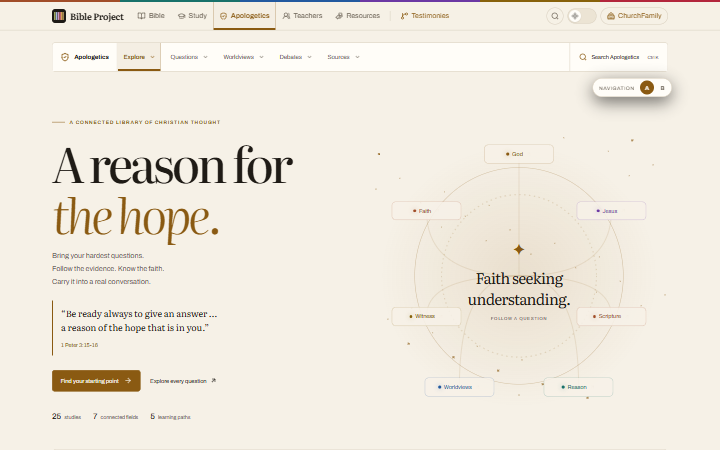
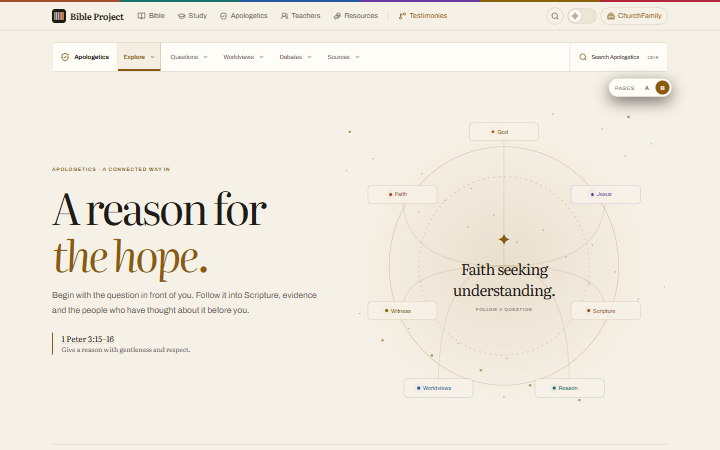
Build parallel Apologetics pages for navigation review

diff --git a/src/pages/ApologeticsPage.tsx b/src/pages/ApologeticsPage.tsx
@@ -5,7 +5,7 @@ import IslamGuidePage from './IslamGuidePage';
 import '@/components/apologetics/navigation.css';
 import { ArrowRight, ArrowUpRight, BookOpen, Bookmark, Check, CheckCircle2, Compass, GitBranch, HeartHandshake, Library, ListFilter, MessageCircle, Route as RouteIcon, Search } from "lucide-react";
 import { useEffect, useState } from "react";
-import { Link, Navigate, Route, Routes, useLocation, useParams, useSearchParams } from "react-router-dom";
+import { Link, Navigate, Route, Routes, useLocation, useNavigate, useParams, useSearchParams } from "react-router-dom";
 import { RefLink } from "@/components/study/StudyParts";
 import { APOLOGETICS_ANCHOR, CONVERSATION_STEPS } from "@/data/apologetics";
 import { AP_EDITORIAL, DEBATES, PATHS, PRACTICE, SOURCES, STUDIES, TOPICS, WORLDVIEWS, sourceById, studyById, studyMinutes, topicById } from "@/data/apologetics-library";
@@ -19,11 +19,13 @@ import { useMeaningResults } from "@/lib/meaning/useMeaningResults";
 import ReformedLibraryPage, { ReformedDoor, HistoricReading } from "./ReformedLibraryPage";
 import "./apologetics.css";
 import { WorldviewIndex, WorldviewPage } from "./WorldviewsPage";
+import { ExploreAlternate, SourcesAlternate } from "./ApologeticsAlternate";
 
-export default function ApologeticsPage() {
-  const book = useApologeticsNotebook(), location = useLocation();
-  const [navMode,setNavMode]=useState<'a'|'b'>(()=>{try{return localStorage.getItem('apologetics-navigation-mode')==='b'?'b':'a';}catch{return 'a';}});
-  const selectNavMode=(mode:'a'|'b')=>{setNavMode(mode);try{localStorage.setItem('apologetics-navigation-mode',mode);}catch{/* Preview still works without storage. */}};
+export default function ApologeticsPage({variant='original'}:{variant?:'original'|'proposed'}) {
+  const book = useApologeticsNotebook(), location = useLocation(), navigate=useNavigate();
+  const proposed=variant==='proposed', suffix=location.pathname.replace(/^\/apologetics2?(?=\/|$)/,'');
+  const counterpart=(target:'original'|'proposed')=>{const nextSuffix=target==='original'&&suffix==='/source-records'?'/sources':suffix;return (target==='proposed'?'/apologetics2':'/apologetics')+nextSuffix+location.search+location.hash;};
+  const redirectInternal=(event:React.MouseEvent<HTMLDivElement>)=>{if(!proposed||event.defaultPrevented||event.button!==0||event.metaKey||event.ctrlKey||event.shiftKey||event.altKey)return;const link=(event.target as HTMLElement).closest('a[href]');if(link?.closest('.ap-navigation-mode'))return;const href=link?.getAttribute('href');if(!href?.startsWith('/apologetics/')&&href!=='/apologetics')return;event.preventDefault();navigate('/apologetics2'+href.slice('/apologetics'.length));};
   useEffect(() => {
     const [, , section, id] = location.pathname.split("/");
     const title = section === "texts" ? "Historic Reformed texts" : section === "study" ? studyById(id)?.title : section === "topics" ? topicById(id)?.title : section === "paths" ? PATHS.find((path) => path.id === id)?.title : section === "worldviews" ? WORLDVIEWS.find((worldview) => worldview.id === id)?.title : section === "debates" ? (id ? DEBATES.find((debate) => debate.id === id)?.title : "Debates") : undefined;
@@ -36,13 +38,13 @@ export default function ApologeticsPage() {
     return ()=>cancelAnimationFrame(frame);
   }, [location.pathname,location.hash]);
   const legacy: Record<string, string> = { "#foundations": "/paths/begin", "#conversation": "/practice", "#across-beliefs": "/worldviews", "#debates": "/debates" };
-  if (location.pathname.replace(/\/$/, "") === base && legacy[location.hash]) return <Navigate replace to={base + legacy[location.hash]} />;
-  return <div className="am-shell ap-live-shell">
-    <div className="ap-navigation-mode" role="group" aria-label="Apologetics navigation preview"><span>Navigation</span><button type="button" aria-label="Navigation option A: Sources" aria-pressed={navMode==='a'} onClick={()=>selectNavMode('a')}>A</button><button type="button" aria-label="Navigation option B: Deepen" aria-pressed={navMode==='b'} onClick={()=>selectNavMode('b')}>B</button></div>
-    <ApologeticsNavigationHeader savedCount={book.notebook.saved.length} mode={navMode}/><div className="am-layout"><div className="ap-page am-content">
+  if (location.pathname.replace(/\/$/, "") === (proposed?'/apologetics2':base) && legacy[location.hash]) return <Navigate replace to={(proposed?'/apologetics2':base) + legacy[location.hash]} />;
+  return <div className="am-shell ap-live-shell" onClickCapture={redirectInternal}>
+    <div className="ap-navigation-mode" role="group" aria-label="Compare Apologetics pages"><span>Pages</span><Link to={counterpart('original')} aria-label="Original Apologetics pages" aria-current={!proposed?'page':undefined}>A</Link><Link to={counterpart('proposed')} aria-label="Proposed Apologetics pages" aria-current={proposed?'page':undefined}>B</Link></div>
+    <ApologeticsNavigationHeader savedCount={book.notebook.saved.length} variant={variant}/><div className="am-layout"><div className="ap-page am-content">
     {book.storageError && <p className="ap-storage-error" role="status">Your browser could not save these changes. Keep this tab open and copy any notes you want to retain.</p>}
     <Routes><Route path="worldviews/islam/guide/*" element={<IslamGuidePage/>}/>
-      <Route index element={<Hub book={book} />} /><Route path="texts" element={<ReformedLibraryPage />} /><Route path="reformed" element={<Navigate replace to={base + "/topics/reformed"} />} /><Route path="questions" element={<QuestionLibrary book={book} />} /><Route path="topics/:id" element={<TopicPage book={book} />} /><Route path="study/:id" element={<StudyPage book={book} />} /><Route path="paths" element={<PathIndex book={book} />} /><Route path="paths/:id" element={<PathPage book={book} />} /><Route path="worldviews" element={<WorldviewIndex />} /><Route path="worldviews/:id" element={<WorldviewPage book={book} />} /><Route path="debates" element={<DebateIndex />} /><Route path="debates/:id" element={<DebatePage book={book} />} /><Route path="practice" element={<PracticePage key={location.search} book={book} />} /><Route path="sources" element={<SourceRoom />} /><Route path="saved" element={<SavedPage book={book} />} /><Route path="*" element={<Missing />} />
+      <Route index element={proposed?<ExploreAlternate book={book}/>:<Hub book={book} />} /><Route path="texts" element={<ReformedLibraryPage />} /><Route path="reformed" element={<Navigate replace to={(proposed?'/apologetics2':base) + "/topics/reformed"} />} /><Route path="questions" element={<QuestionLibrary book={book} proposed={proposed}/>} /><Route path="topics/:id" element={<TopicPage book={book} />} /><Route path="study/:id" element={<StudyPage book={book} />} /><Route path="paths" element={<PathIndex book={book} />} /><Route path="paths/:id" element={<PathPage book={book} />} /><Route path="worldviews" element={<WorldviewIndex />} /><Route path="worldviews/:id" element={<WorldviewPage book={book} />} /><Route path="debates" element={<DebateIndex />} /><Route path="debates/:id" element={<DebatePage book={book} />} /><Route path="practice" element={<PracticePage key={location.search} book={book} />} /><Route path="sources" element={proposed?<SourcesAlternate/>:<SourceRoom />} /><Route path="source-records" element={proposed?<SourceRoom/>:<Missing/>} /><Route path="saved" element={<SavedPage book={book} />} /><Route path="*" element={<Missing />} />
     </Routes>
     <footer className="ap-footer"><div><BookOpen size={20} /><p><strong>{AP_EDITORIAL.footerTitle}</strong><span>{AP_EDITORIAL.footerText}</span></p></div><RefLink span={APOLOGETICS_ANCHOR} label="Our starting point · 1 Peter 3:15–16" /></footer>
   </div></div></div>;
@@ -60,7 +62,7 @@ function Hub({ book }: { book: ApNotebook }) {
     {book.notebook.read.length > 0 && <div className="ap-continue"><CheckCircle2 size={21} /><div><strong>Keep following the thread.</strong><p>{book.notebook.read.length} studies marked read on this device.</p></div><Link to={studyUrl(next)}>Continue your foundation <ArrowRight size={16} /></Link></div>}
   </>;
 }
-function QuestionLibrary({ book, topicId }: { book: ApNotebook; topicId?: string }) {
+function QuestionLibrary({ book, topicId, proposed=false }: { book: ApNotebook; topicId?: string; proposed?: boolean }) {
   const [params, setParams] = useSearchParams(), topic = topicId ? topicById(topicId) : undefined;
   const query = params.get("q") ?? "", filter = topic?.id ?? params.get("topic") ?? "all";
   const search = searchStudies(STUDIES, query);
@@ -70,9 +72,9 @@ function QuestionLibrary({ book, topicId }: { book: ApNotebook; topicId?: string
   const meaningHits: StudyHit[] = byMeaning ? meaning.results!.studies.slice(0, 8).flatMap((s) => { const study = studyById(s.id); return study ? [{ study, snippet: null }] : []; }) : [];
   const visible = (byMeaning ? meaningHits : search.hits).filter((hit) => filter === "all" || hit.study.topic === filter);
   const change = (key: string, value: string) => { const next = new URLSearchParams(params); if (value && value !== "all") next.set(key, value); else next.delete(key); setParams(next, { replace: true }); };
-  return <><Heading eyebrow={topic ? "Explore a field" : "The question library"} title={topic?.title ?? "A good question opens a door."} lead={topic?.description ?? "Find a starting answer, follow the argument, test an objection and open the sources."} />{topic?.id === "reformed" && <ReformedDoor />}<div className="ap-filter-bar"><ApSearch value={query} onChange={(value) => change("q", value)} /><p role="status">{visible.length} {visible.length === 1 ? "study" : "studies"}{byMeaning ? " · closest in meaning" : search.partial && visible.length > 0 && " · none has every word, so these have some"}</p></div>
+  return <><Heading eyebrow={topic ? "Explore a field" : proposed ? "Questions / choose a field" : "The question library"} title={topic?.title ?? (proposed?"Follow the question that brought you here.":"A good question opens a door.")} lead={topic?.description ?? "Find a starting answer, follow the argument, test an objection and open the sources."} />{topic?.id === "reformed" && <ReformedDoor />}{proposed&&!topic&&<section className="ap-alt-fields"><p className="ap-eyebrow">Seven fields · one question library</p><div>{TOPICS.map((item,index)=><Link key={item.id} to={base+'/topics/'+item.id} style={color(item.color)}><span>0{index+1}</span><TopicArt index={index}/><strong>{item.title}</strong><small>{STUDIES.filter(study=>study.topic===item.id).length} connected studies</small><ArrowUpRight size={16}/></Link>)}</div><p>Choose a field, or search every study below. Reformed theology remains a field of questions, linked to its path and historic works.</p></section>}<div className="ap-filter-bar"><ApSearch value={query} onChange={(value) => change("q", value)} /><p role="status">{visible.length} {visible.length === 1 ? "study" : "studies"}{byMeaning ? " · closest in meaning" : search.partial && visible.length > 0 && " · none has every word, so these have some"}</p></div>
     <MeaningPrompt query={query} className="ap-meaning-prompt" active={!query.trim() ? <span>Meaning search is on: ask a whole question and the studies are ranked by what you mean.</span> : !question ? <span>Meaning search is on: ask a whole question (three words or more) to rank by meaning.</span> : wordsOnly ? <button type="button" className="ap-text-button" onClick={() => change("by", "")}>Rank by meaning instead <ArrowRight size={13} /></button> : meaning.status === "loading" ? <span>Ranking the studies by meaning…</span> : <span>Ranked by meaning. <button type="button" className="ap-text-button" onClick={() => change("by", "words")}>Match the exact words instead</button></span>} />
-    {!topic && <div className="ap-filter-chips" role="group" aria-label="Filter by topic"><button type="button" aria-pressed={filter === "all"} onClick={() => change("topic", "all")}><ListFilter size={14} />All questions</button>{TOPICS.map((item) => <button key={item.id} type="button" aria-pressed={filter === item.id} onClick={() => change("topic", item.id)}>{item.title}</button>)}</div>}
+    {!topic && !proposed && <div className="ap-filter-chips" role="group" aria-label="Filter by topic"><button type="button" aria-pressed={filter === "all"} onClick={() => change("topic", "all")}><ListFilter size={14} />All questions</button>{TOPICS.map((item) => <button key={item.id} type="button" aria-pressed={filter === item.id} onClick={() => change("topic", item.id)}>{item.title}</button>)}</div>}
     {visible.length ? <div className="ap-study-grid">{visible.map((hit) => <StudyCard key={hit.study.id} study={hit.study} book={book} snippet={hit.snippet} />)}</div> : <div className="ap-empty"><Search size={26} /><h2>No studies match that search.</h2><p>Try a broader word or clear the filters.</p><button className="ap-button" onClick={() => setParams({})}>Clear search and filters</button></div>}
     {topic && <section className="ap-section"><SectionHeading eyebrow="Everything connects" title="Follow a neighbouring question." /><div className="ap-topic-links">{TOPICS.filter((item) => item.id !== topic.id).map((item) => <Link key={item.id} to={base + "/topics/" + item.id}>{item.title}<ArrowUpRight size={14} /></Link>)}</div></section>}
   </>;

diff --git a/src/components/apologetics/WorldviewNavigation.tsx b/src/components/apologetics/WorldviewNavigation.tsx
@@ -4,9 +4,11 @@ import {Link, useLocation} from 'react-router-dom';
 import {ChevronDown} from 'lucide-react';
 import {AnimatePresence,motion,useReducedMotion} from 'framer-motion';
 import {MosqueIcon} from './MosqueIcon';
-import {worlds, islamPages, groupFor, secondary, currentIslam} from '@/lib/apologetics-navigation';
+import {main, worlds, islamPages, groupFor, secondary, currentIslam} from '@/lib/apologetics-navigation';
 
 const base='/apologetics', root=base+'/worldviews';
+const forVariant=(to:string,variant:'original'|'proposed')=>variant==='proposed'&&to.startsWith(base)?base+'2'+to.slice(base.length):to;
+const originalPath=(path:string)=>path.replace(/^\/apologetics2(?=\/|$)/,base);
 type World=(typeof worlds)[number];
 function reveal(e:React.FocusEvent<HTMLElement>){e.currentTarget.scrollIntoView({block:'nearest',inline:'nearest'});}
 function Glyph({world}:{world:World}){
@@ -24,36 +26,36 @@ function pagesFor(world:World){
  if(world.to===root+'/islam')return islamPages;
  return [{label:'Overview',to:world.to},{label:'Examine the claims',to:world.to+'#comparison'},{label:'Read the source texts',to:world.to+'#wv-context-heading'},{label:'Connected studies',to:world.to+'#conversation-studies'}];
 }
-function StudyLinks({world}:{world:World}){
+function StudyLinks({world,variant}:{world:World;variant:'original'|'proposed'}){
  const location=useLocation();
- const active=world.to===root+'/islam'?currentIslam(location.pathname,location.search).to:location.pathname+location.hash;
- return <nav className="sm-study-links" aria-label={world.label+' subpages'}>{pagesFor(world).map(p=><Link key={p.label} to={p.to} onFocus={reveal} aria-current={location.pathname.startsWith(world.to)&&p.to===active?'page':undefined}>{p.label}</Link>)}</nav>;
+ const path=originalPath(location.pathname),active=world.to===root+'/islam'?currentIslam(path,location.search).to:path+location.hash;
+ return <nav className="sm-study-links" aria-label={world.label+' subpages'}>{pagesFor(world).map(p=><Link key={p.label} to={forVariant(p.to,variant)} onFocus={reveal} aria-current={path.startsWith(world.to)&&p.to===active?'page':undefined}>{p.label}</Link>)}</nav>;
 }
-function WorldChoices(){
+function WorldChoices({variant}:{variant:'original'|'proposed'}){
  const location=useLocation();
- return <nav className="sm-world-choices" aria-label="Worldview collections">{worlds.map(w=><Link key={w.to} to={w.to} onFocus={reveal} title={w.label} aria-label={w.label} aria-current={location.pathname.startsWith(w.to)?'page':undefined} style={{'--wv-accent':w.accent} as React.CSSProperties}><Glyph world={w}/><span className="sm-world-label" aria-hidden="true"><span className="sm-world-name">{w.label}</span></span><span className="sm-tooltip" aria-hidden="true">{w.label}</span></Link>)}</nav>;
+ return <nav className="sm-world-choices" aria-label="Worldview collections">{worlds.map(w=><Link key={w.to} to={forVariant(w.to,variant)} onFocus={reveal} title={w.label} aria-label={w.label} aria-current={originalPath(location.pathname).startsWith(w.to)?'page':undefined} style={{'--wv-accent':w.accent} as React.CSSProperties}><Glyph world={w}/><span className="sm-world-label" aria-hidden="true"><span className="sm-world-name">{w.label}</span></span><span className="sm-tooltip" aria-hidden="true">{w.label}</span></Link>)}</nav>;
 }
-function WorldviewSubmenu(){
+function WorldviewSubmenu({variant}:{variant:'original'|'proposed'}){
  const location=useLocation();
  const reduced=useReducedMotion();
- const world=worlds.find(w=>location.pathname.startsWith(w.to));
+ const world=worlds.find(w=>originalPath(location.pathname).startsWith(w.to));
  return <div className={'sm-dock-row'+(!world?' sm-world-index':'')} style={{'--sm-tone':world?.accent??'var(--poetry)'} as React.CSSProperties}>
-  <WorldChoices/><div className="sm-world-detail-slot"><AnimatePresence initial={false}>{world&&<motion.div key="details" className="sm-world-detail" initial={{opacity:0}} animate={{opacity:1,transition:{duration:reduced?0:.18,delay:reduced?0:.4}}} exit={{opacity:0,transition:{duration:reduced?0:.12}}}>
+  <WorldChoices variant={variant}/><div className="sm-world-detail-slot"><AnimatePresence initial={false}>{world&&<motion.div key="details" className="sm-world-detail" initial={{opacity:0}} animate={{opacity:1,transition:{duration:reduced?0:.18,delay:reduced?0:.4}}} exit={{opacity:0,transition:{duration:reduced?0:.12}}}>
    <span className="sm-current"><span className="sm-current-sizing" aria-hidden="true">{worlds.map(w=><span key={w.to}>{w.label}</span>)}</span><AnimatePresence mode="wait" initial={false}><motion.span key={world.to} className="sm-current-label" initial={{opacity:0}} animate={{opacity:1}} exit={{opacity:0}} transition={{duration:reduced?0:.13}} style={{color:world.accent}}>{world.label}</motion.span></AnimatePresence></span>
-   <div className="sm-study-slot"><StudyLinks world={world}/></div>
+   <div className="sm-study-slot"><StudyLinks world={world} variant={variant}/></div>
   </motion.div>}</AnimatePresence></div>
  </div>;
 }
-export function WorldviewNavigation({savedCount=0,leading,trailing,mode='a'}:{savedCount?:number;leading:ReactNode;trailing:ReactNode;mode?:'a'|'b'}){
- const location=useLocation(),oldGroup=groupFor(location.pathname);
- const group=location.pathname.startsWith('/apologetics/worldviews')?'Worldviews':location.pathname.startsWith('/apologetics/debates')?'Debates':location.pathname.startsWith('/apologetics/topics/reformed')?'Questions':location.pathname.startsWith('/apologetics/topics/')||location.pathname.startsWith('/apologetics/questions')||location.pathname.startsWith('/apologetics/study/')?'Questions':location.pathname.startsWith('/apologetics/paths')?(mode==='a'?'Explore':'Deepen'):location.pathname.startsWith('/apologetics/texts')||location.pathname.startsWith('/apologetics/sources')?(mode==='a'?'Sources':'Deepen'):oldGroup;
- const sections=[{label:'Explore',to:base},{label:'Questions',to:base+'/questions'},{label:'Worldviews',to:root},{label:'Debates',to:base+'/debates'},{label:mode==='a'?'Sources':'Deepen',to:mode==='a'?base+'/sources':base+'/paths'}];
+export function WorldviewNavigation({savedCount=0,leading,trailing,variant='original'}:{savedCount?:number;leading:ReactNode;trailing:ReactNode;variant?:'original'|'proposed'}){
+ const location=useLocation(),path=originalPath(location.pathname);
+ const group=variant==='original'?groupFor(path):path.startsWith(base+'/worldviews')?'Worldviews':path.startsWith(base+'/debates')?'Debates':path.startsWith(base+'/topics/')||path.startsWith(base+'/questions')||path.startsWith(base+'/study/')?'Questions':path.startsWith(base+'/sources')||path.startsWith(base+'/source-records')||path.startsWith(base+'/texts')?'Sources':'Explore';
+ const sections=variant==='original'?main.filter(d=>d.label!=='Practice'&&d.label!=='My study'):[{label:'Explore',to:base},{label:'Questions',to:base+'/questions'},{label:'Worldviews',to:root},{label:'Debates',to:base+'/debates'},{label:'Sources',to:base+'/sources'}];
  const reduced=useReducedMotion();
  const [opened,setOpened]=useState<string|null>(group==='Worldviews'?'Worldviews':null);
  const trigger=useRef<HTMLButtonElement|null>(null),previous=useRef(location.pathname);
  useEffect(()=>{if(previous.current!==location.pathname)setOpened(group==='Worldviews'?'Worldviews':null);previous.current=location.pathname;},[location.pathname,group]);
  useEffect(()=>{const key=(e:KeyboardEvent)=>{if(e.key==='Escape'&&opened&&!document.querySelector('dialog[open]')){setOpened(null);trigger.current?.focus();}};document.addEventListener('keydown',key);return()=>document.removeEventListener('keydown',key);},[opened]);
- return <div className="sm-container"><div className="sm-topbar">{leading}<nav className="sm-main" aria-label="Apologetics sections">{sections.map(d=><div key={d.to} data-current={group===d.label}><Link to={d.to} onFocus={reveal} aria-current={group===d.label?'page':undefined}>{d.label}{d.label==="My study"&&savedCount>0&&<span className="sm-saved-count">{savedCount}</span>}</Link><button ref={d.label===group?el=>{if(!trigger.current)trigger.current=el;}:undefined} aria-label={(opened===d.label?'Collapse ':'Browse ')+d.label} aria-expanded={opened===d.label} aria-controls="sm-panel" onClick={e=>{trigger.current=e.currentTarget;setOpened(opened===d.label?null:d.label);}}><ChevronDown size={12}/></button></div>)}</nav>{trailing}</div>
- <AnimatePresence initial={false}>{opened&&<motion.div id="sm-panel" className="sm-panel" key="submenu" initial={{height:0,opacity:0}} animate={{height:'auto',opacity:1,transitionEnd:{overflow:'visible'}}} exit={{height:0,opacity:0,overflow:'hidden'}} style={{overflow:'hidden'}} transition={{duration:reduced?0:.26,ease:[.22,1,.36,1]}}><motion.div initial={{y:reduced?0:-10}} animate={{y:0}} transition={{duration:reduced?0:.26,ease:[.22,1,.36,1]}}>{opened==='Worldviews'?<WorldviewSubmenu/>:<nav className="sm-other-sections" aria-label={opened+' destinations'}>{(opened==='Sources'?[{label:'Source room',to:base+'/sources'},{label:'Historic texts',to:base+'/texts'}]:opened==='Deepen'?[{label:'Learning paths',to:base+'/paths'},{label:'Reformed theology',to:base+'/topics/reformed'},{label:'Historic texts',to:base+'/texts'},{label:'Source room',to:base+'/sources'}]:opened==='Explore'?[{label:'Apologetics home',to:base},{label:'Learning paths',to:base+'/paths'},{label:'Christian foundations',to:base+'/topics/reformed'}]:secondary(opened)).map(d=><Link key={d.to} to={d.to} onFocus={reveal} onClick={()=>setOpened(null)}>{d.label}</Link>)}</nav>}</motion.div></motion.div>}</AnimatePresence>
+ return <div className="sm-container"><div className="sm-topbar">{leading}<nav className="sm-main" aria-label="Apologetics sections">{sections.map(d=><div key={d.to} data-current={group===d.label}><Link to={forVariant(d.to,variant)} onFocus={reveal} aria-current={group===d.label?'page':undefined}>{d.label}{d.label==="My study"&&savedCount>0&&<span className="sm-saved-count">{savedCount}</span>}</Link><button ref={d.label===group?el=>{if(!trigger.current)trigger.current=el;}:undefined} aria-label={(opened===d.label?'Collapse ':'Browse ')+d.label} aria-expanded={opened===d.label} aria-controls="sm-panel" onClick={e=>{trigger.current=e.currentTarget;setOpened(opened===d.label?null:d.label);}}><ChevronDown size={12}/></button></div>)}</nav>{trailing}</div>
+ <AnimatePresence initial={false}>{opened&&<motion.div id="sm-panel" className="sm-panel" key="submenu" initial={{height:0,opacity:0}} animate={{height:'auto',opacity:1,transitionEnd:{overflow:'visible'}}} exit={{height:0,opacity:0,overflow:'hidden'}} style={{overflow:'hidden'}} transition={{duration:reduced?0:.26,ease:[.22,1,.36,1]}}><motion.div initial={{y:reduced?0:-10}} animate={{y:0}} transition={{duration:reduced?0:.26,ease:[.22,1,.36,1]}}>{opened==='Worldviews'?<WorldviewSubmenu variant={variant}/>:<nav className="sm-other-sections" aria-label={opened+' destinations'}>{(variant==='proposed'&&opened==='Sources'?[{label:'Sources overview',to:base+'/sources'},{label:'Cited records',to:base+'/source-records'},{label:'Historic Christian works',to:base+'/texts'}]:secondary(opened)).map(d=><Link key={d.to} to={forVariant(d.to,variant)} onFocus={reveal} onClick={()=>setOpened(null)}>{d.label}</Link>)}</nav>}</motion.div></motion.div>}</AnimatePresence>
  </div>;
 }

diff --git a/src/pages/apologetics-alternate.css b/src/pages/apologetics-alternate.css
@@ -1,0 +1,2 @@
+.ap-alt{--alt-gold:var(--accent)}.ap-alt-hero{display:grid;grid-template-columns:minmax(0,.9fr) minmax(360px,1.1fr);align-items:center;gap:40px;padding:45px 0 70px;border-bottom:1px solid var(--line)}.ap-alt-hero h1,.ap-alt-source-hero h1{font:normal clamp(54px,6vw,91px)/1.08 var(--font-serif);letter-spacing:-.055em;margin:19px 0 25px;max-width:800px}.ap-alt-hero h1 em,.ap-alt-source-hero h1 em{color:var(--accent)}.ap-alt-lead,.ap-alt-source-hero>p:last-child{max-width:590px;font-size:17px;line-height:1.7;color:var(--muted)}.ap-alt-hero .ap-constellation{max-width:100%}.ap-alt-verse{margin-top:30px;padding-left:17px;border-left:2px solid var(--accent);font-family:var(--font-serif)}.ap-alt-verse p{font-size:13px;color:var(--muted)}.ap-alt-section{margin:60px 0}.ap-alt-section-head{margin-bottom:23px}.ap-alt-section-head h2{font:normal clamp(29px,3.2vw,42px)/1.2 var(--font-serif);letter-spacing:-.035em;margin:10px 0}.ap-alt-section-head>p:last-child{font-size:14px;color:var(--muted)}.ap-alt-section-head-row{display:flex;align-items:end;justify-content:space-between;gap:20px}.ap-alt-section-head-row>a{display:flex;gap:7px;align-items:center;color:var(--accent);font-size:12px;white-space:nowrap}.ap-alt-doors{display:grid;grid-template-columns:repeat(3,minmax(0,1fr));gap:15px}.ap-alt-doors>a{display:flex;flex-direction:column;min-height:302px;padding:27px;border:1px solid var(--line);background:var(--surface);transition:transform .25s,border-color .25s,box-shadow .25s}.ap-alt-doors>a:hover,.ap-alt-source-doors>a:hover,.ap-alt-next>a:hover,.ap-alt-work-list>a:hover{transform:translateY(-5px);border-color:var(--accent);box-shadow:0 14px 35px #0001}.ap-alt-doors span,.ap-alt-next span,.ap-alt-source-doors span{font-size:10px;letter-spacing:.14em;color:var(--accent);font-weight:700}.ap-alt-doors svg{color:var(--accent);margin-top:26px}.ap-alt-doors h3{font:normal 27px/1.2 var(--font-serif);margin:22px 0 9px}.ap-alt-doors p,.ap-alt-next p{font-size:13px;line-height:1.65;color:var(--muted);margin:0 0 23px}.ap-alt-doors strong,.ap-alt-next strong{display:flex;align-items:center;gap:9px;color:var(--accent);font-size:12px;margin-top:auto}.ap-alt-paths{grid-template-columns:repeat(3,minmax(0,1fr))}.ap-alt-next{display:grid;grid-template-columns:1fr 1fr;gap:15px}.ap-alt-next>a{display:flex;flex-direction:column;min-height:220px;border:1px solid var(--line);padding:28px;background:var(--surface);transition:transform .25s,border-color .25s,box-shadow .25s}.ap-alt-next svg{color:var(--accent)}.ap-alt-next h3{font:normal 27px/1.2 var(--font-serif);max-width:430px;margin:20px 0 12px}.ap-alt-source-hero{padding:54px 0 40px;border-bottom:1px solid var(--line)}.ap-alt-source-hero h1{max-width:900px}.ap-alt-source-doors{display:grid;grid-template-columns:1fr 1fr;gap:18px;margin:36px 0 65px}.ap-alt-source-doors>a{display:flex;flex-direction:column;min-height:330px;padding:32px;border:1px solid var(--line);background:var(--surface);transition:transform .25s,border-color .25s,box-shadow .25s}.ap-alt-source-doors>a>svg{color:var(--accent);margin:27px 0 8px}.ap-alt-source-doors h2{font:normal 38px var(--font-serif);margin:8px 0}.ap-alt-source-doors p{max-width:480px;line-height:1.65;color:var(--muted);font-size:14px}.ap-alt-source-doors a:hover{color:var(--accent)}.ap-alt-source-doors a,.ap-alt-source-doors b{font-weight:600}.ap-alt-source-doors>a>div{display:flex;justify-content:space-between;gap:15px;align-items:center;margin-top:auto;border-top:1px solid var(--line);padding-top:19px;font-size:12px}.ap-alt-source-doors b{display:flex;align-items:center;gap:8px;color:var(--accent)}.ap-alt-source-list{display:grid;grid-template-columns:1fr 1fr;gap:0 24px}.ap-alt-source-list>a{display:grid;grid-template-columns:1fr 20px;border-top:1px solid var(--line);padding:17px 8px;gap:6px}.ap-alt-source-list small,.ap-alt-source-list span{color:var(--muted);font-size:11px}.ap-alt-source-list strong{font:normal 19px var(--font-serif)}.ap-alt-source-list svg{grid-column:2;grid-row:2;color:var(--accent)}.ap-alt-work-list{display:grid;grid-template-columns:repeat(3,1fr);gap:15px}.ap-alt-work-list>a{border:1px solid var(--line);padding:24px;min-height:215px;display:flex;flex-direction:column;background:var(--surface);transition:transform .25s,border-color .25s,box-shadow .25s}.ap-alt-work-list svg{color:var(--accent)}.ap-alt-work-list h3{font:normal 22px/1.3 var(--font-serif);margin:19px 0 8px}.ap-alt-work-list p{color:var(--muted);font-size:12px;line-height:1.6}.ap-alt-work-list span{display:flex;align-items:center;gap:8px;margin-top:auto;color:var(--accent);font-size:12px}.ap-alt-return{display:flex;justify-content:space-between;gap:30px;align-items:center;background:var(--surface);border:1px solid var(--line);padding:30px;margin-bottom:60px}.ap-alt-return h2{font:normal 24px/1.3 var(--font-serif);max-width:650px}.ap-alt-return>a{display:flex;gap:8px;align-items:center;color:var(--accent);font-size:12px;white-space:nowrap}.ap-alt-fields{margin:20px 0 36px}.ap-alt-fields>div{display:grid;grid-template-columns:repeat(4,1fr);gap:12px;margin:15px 0}.ap-alt-fields>div>a{display:grid;grid-template-columns:1fr 20px;grid-template-rows:auto 80px auto auto;gap:5px;border:1px solid var(--line);background:var(--surface);padding:16px;min-height:180px;transition:border-color .2s,transform .2s}.ap-alt-fields>div>a:hover{border-color:var(--accent);transform:translateY(-3px)}.ap-alt-fields>div>a>span{font-size:10px;color:var(--accent)}.ap-alt-fields>div>a>svg:not(:last-child){grid-column:1/-1;width:80px;height:80px;justify-self:center}.ap-alt-fields>div>a>strong{font:normal 17px var(--font-serif);grid-column:1/-1}.ap-alt-fields>div>a>small{color:var(--muted);font-size:10px}.ap-alt-fields>div>a>svg:last-child{grid-column:2;grid-row:1;color:var(--accent)}.ap-alt-fields>p:last-child{font-size:12px;color:var(--muted)}@media(max-width:900px){.ap-alt-hero{grid-template-columns:1fr}.ap-alt-hero .ap-constellation{display:none}.ap-alt-doors,.ap-alt-paths,.ap-alt-work-list{grid-template-columns:repeat(2,1fr)}.ap-alt-fields>div{grid-template-columns:repeat(3,1fr)}}@media(max-width:600px){.ap-alt-hero{padding:30px 0 45px}.ap-alt-hero h1,.ap-alt-source-hero h1{font-size:clamp(44px,12vw,64px)}.ap-alt-section{margin:43px 0}.ap-alt-section-head-row{display:block}.ap-alt-doors,.ap-alt-paths,.ap-alt-next,.ap-alt-source-doors,.ap-alt-source-list,.ap-alt-work-list,.ap-alt-fields>div{grid-template-columns:1fr}.ap-alt-doors>a,.ap-alt-source-doors>a{min-height:260px}.ap-alt-source-hero{padding:35px 0}.ap-alt-source-doors>a>div,.ap-alt-return{display:block}.ap-alt-source-doors b{margin-top:10px}.ap-alt-return>a{white-space:normal}.ap-alt-fields>div{grid-template-columns:repeat(2,1fr)}.ap-alt-fields>div>a{min-height:155px}}
+.ap-alt-source-list>a{display:flex;flex-direction:column;position:relative;gap:7px;min-width:0;padding:20px 34px 20px 8px}.ap-alt-source-list>a strong{font:normal 21px/1.3 var(--font-serif);overflow-wrap:anywhere}.ap-alt-source-list>a svg{position:absolute;right:8px;top:43px}.ap-alt-source-list>a span{line-height:1.5}.ap-alt-source-list>a:hover strong{color:var(--accent)}

diff --git a/src/pages/ApologeticsAlternate.tsx b/src/pages/ApologeticsAlternate.tsx
@@ -1,0 +1,42 @@
+import { ArrowRight, ArrowUpRight, BookOpen, Library, MessageCircle, Route as RouteIcon, Search } from "lucide-react";
+import { Link } from "react-router-dom";
+import { APOLOGETICS_ANCHOR } from "@/data/apologetics";
+import { PATHS, SOURCES, STUDIES, TOPICS, WORLDVIEWS, DEBATES } from "@/data/apologetics-library";
+import type { ApNotebook } from "@/lib/apologetics-notebook";
+import { ApSourcePolicy, Constellation, PathCard } from "@/components/ApologeticsParts";
+import { RefLink } from "@/components/study/StudyParts";
+import { REFORMED_LIBRARY } from "@/generated/reading-library";
+import { apSourceUrl } from "@/lib/reading-sources";
+import "./apologetics-alternate.css";
+
+const base="/apologetics2";
+const kinds=SOURCES.filter((source,index)=>SOURCES.findIndex(other=>other.kind===source.kind)===index).slice(0,4);
+const featured=REFORMED_LIBRARY.featuredWorkIds.map(id=>REFORMED_LIBRARY.works.find(work=>work.id===id)!).filter(Boolean);
+
+export function ExploreAlternate({book}:{book:ApNotebook}){
+  return <div className="ap-alt">
+    <header className="ap-alt-hero"><div><p className="ap-eyebrow">Apologetics · a connected way in</p><h1>A reason for <em>the hope.</em></h1><p className="ap-alt-lead">Begin with the question in front of you. Follow it into Scripture, evidence and the people who have thought about it before you.</p><div className="ap-alt-verse"><RefLink span={APOLOGETICS_ANCHOR} label="1 Peter 3:15–16"/><p>Give a reason with gentleness and respect.</p></div></div><Constellation/></header>
+    <section className="ap-alt-section"><div className="ap-alt-section-head"><p className="ap-eyebrow">Choose your entrance</p><h2>What brought you here?</h2><p>These are ways through the same collection, not separate libraries.</p></div><div className="ap-alt-doors">
+      <Link to={base+"/questions"}><span>01 / ASK</span><Search size={30} strokeWidth={1.2}/><h3>I have a question.</h3><p>Choose one of {TOPICS.length} fields or search all {STUDIES.length} studies. Examine an answer, its objection, and its sources.</p><strong>Explore questions <ArrowRight size={16}/></strong></Link>
+      <Link to={base+"/paths"}><span>02 / FOLLOW</span><RouteIcon size={30} strokeWidth={1.2}/><h3>Guide me through.</h3><p>Choose one of {PATHS.length} learning paths. Each orders existing studies so one question can prepare you for the next.</p><strong>Follow a path <ArrowRight size={16}/></strong></Link>
+      <Link to={base+"/sources"}><span>03 / EXAMINE</span><Library size={30} strokeWidth={1.2}/><h3>Show me the sources.</h3><p>Open cited records and historic Christian works. See what each source can establish and where the studies use it.</p><strong>Open Sources <ArrowRight size={16}/></strong></Link>
+    </div></section>
+    <section className="ap-alt-section"><div className="ap-alt-section-head ap-alt-section-head-row"><div><p className="ap-eyebrow">Guided learning</p><h2>Take a route through the questions.</h2></div><Link to={base+"/paths"}>See all {PATHS.length} paths <ArrowUpRight size={15}/></Link></div><div className="ap-path-grid ap-alt-paths">{PATHS.map((path,index)=><PathCard key={path.id} path={path} index={index} book={book}/>)}</div></section>
+    <section className="ap-alt-section"><div className="ap-alt-section-head"><p className="ap-eyebrow">Continue the investigation</p><h2>Compare a claim. Examine an exchange.</h2></div><div className="ap-alt-next"><Link to={base+"/worldviews"}><span>WORLDVIEWS</span><h3>Understand another tradition on its own terms.</h3><p>{WORLDVIEWS.length} collections begin with beliefs and texts, then open the connected questions.</p><strong>Explore worldviews <ArrowRight size={15}/></strong></Link><Link to={base+"/debates"}><span>DEBATES</span><MessageCircle size={24} strokeWidth={1.2}/><h3>Follow what each side actually argued.</h3><p>{DEBATES.length} exchanges connect transcripts and claims to the studies underneath.</p><strong>Enter the debate room <ArrowRight size={15}/></strong></Link></div></section>
+    <ApSourcePolicy compact/>
+  </div>;
+}
+
+export function SourcesAlternate(){
+  return <div className="ap-alt ap-alt-sources">
+    <header className="ap-alt-source-hero"><p className="ap-eyebrow">Sources · a library with a paper trail</p><h1>Read what the answer <em>rests on.</em></h1><p>The studies make claims. Here you can inspect the records they cite and read historic Christian arguments in fuller form. These are different kinds of sources with different roles.</p></header>
+    <div className="ap-alt-source-doors">
+      <Link to={base+"/source-records"}><span>01 / THE EVIDENCE BEHIND THE STUDIES</span><Library size={34} strokeWidth={1.1}/><h2>Cited records</h2><p>Confessions, manuscripts, religious texts, debate transcripts and other records cited by the question studies and exchanges.</p><div><strong>{SOURCES.length} records</strong><b>Browse cited records <ArrowRight size={16}/></b></div></Link>
+      <Link to={base+"/texts"}><span>02 / HISTORIC CHRISTIAN READING</span><BookOpen size={34} strokeWidth={1.1}/><h2>Historic works & authors</h2><p>Read fuller arguments from the Reformed reading library. Each work identifies an edition, author, starting point and connected studies.</p><div><strong>{REFORMED_LIBRARY.works.length} works · {REFORMED_LIBRARY.authors.length} authors</strong><b>Open the reading library <ArrowRight size={16}/></b></div></Link>
+    </div>
+    <section className="ap-alt-section"><div className="ap-alt-section-head ap-alt-section-head-row"><div><p className="ap-eyebrow">Inside the cited records</p><h2>Different claims need different evidence.</h2></div><Link to={base+"/source-records"}>All records <ArrowUpRight size={15}/></Link></div><div className="ap-alt-source-list">{kinds.map(source=><Link key={source.id} to={apSourceUrl(source.id)}><small>{source.kind}</small><strong>{source.title}</strong><span>{source.author}</span><ArrowUpRight size={16}/></Link>)}</div></section>
+    <section className="ap-alt-section"><div className="ap-alt-section-head ap-alt-section-head-row"><div><p className="ap-eyebrow">Inside the historic library</p><h2>Meet an argument in full.</h2></div><Link to={base+"/texts"}>All works & authors <ArrowUpRight size={15}/></Link></div><div className="ap-alt-work-list">{featured.map(work=><Link key={work.id} to={base+"/texts?q="+encodeURIComponent(work.title)}><BookOpen size={22} strokeWidth={1.1}/><h3>{work.title}</h3><p>{work.summary}</p><span>Find the work <ArrowRight size={15}/></span></Link>)}</div></section>
+    <div className="ap-alt-return"><div><p className="ap-eyebrow">Follow the citation both ways</p><h2>From a question to its source. From a source back to the question.</h2></div><Link to={base+"/questions"}>Open the question library <ArrowRight size={16}/></Link></div>
+    <ApSourcePolicy compact/>
+  </div>;
+}

diff --git a/src/components/apologetics/ApologeticsNavigationHeader.tsx b/src/components/apologetics/ApologeticsNavigationHeader.tsx
@@ -4,7 +4,7 @@ import {ArrowRight,BookOpen,Search,ShieldCheck,X} from 'lucide-react';
 import {browseGroups,destinations} from '@/lib/apologetics-navigation';
 import {WorldviewNavigation} from './WorldviewNavigation';
 const base='/apologetics';
-export function ApologeticsNavigationHeader({savedCount=0,mode='a'}:{savedCount?:number;mode?:'a'|'b'}) {
+export function ApologeticsNavigationHeader({savedCount=0,variant='original'}:{savedCount?:number;variant?:'original'|'proposed'}) {
   const location=useLocation();
   const [query,setQuery]=useState('');
   const dialog=useRef<HTMLDialogElement>(null), trigger=useRef<HTMLButtonElement>(null), input=useRef<HTMLInputElement>(null);
@@ -15,7 +15,7 @@ export function ApologeticsNavigationHeader({savedCount=0,mode='a'}:{savedCount?
   const seen=new Set<string>();
   const results=destinations.filter(d=>{const matches=(d.label+' '+(d.detail??'')).toLowerCase().includes(query.trim().toLowerCase());if(!matches||seen.has(d.to))return false;seen.add(d.to);return true;});
   return <>
-    <WorldviewNavigation savedCount={savedCount} mode={mode}
+    <WorldviewNavigation savedCount={savedCount} variant={variant}
       leading={<Link to={base} className="sm-leading-brand" aria-label="Apologetics home"><ShieldCheck size={18}/><strong>Apologetics</strong></Link>}
       trailing={<button ref={trigger} onClick={open} className="sm-trailing-search" type="button" aria-label="Search Apologetics"><Search size={16}/><span>Search Apologetics</span><kbd>Ctrl K</kbd></button>}/>
     <dialog onKeyDown={e=>{if(e.key==="Escape"){e.preventDefault();e.stopPropagation();close();}}} className="am-dialog" ref={dialog} onClose={()=>trigger.current?.focus()} onClick={e=>{if(e.target===dialog.current)close();}} aria-labelledby="am-dialog-title">

diff --git a/src/components/apologetics/navigation.css b/src/components/apologetics/navigation.css
@@ -80,7 +80,7 @@
 /* Temporary A/B control floats over the real Apologetics collection. */
 .ap-navigation-mode{position:fixed;z-index:60;top:156px;right:max(16px,calc((100vw - 1280px)/2 + 16px));display:flex;align-items:center;gap:3px;padding:4px;border:1px solid var(--line);border-radius:999px;background:var(--surface);color:var(--muted);box-shadow:0 10px 32px #0008;font-size:10px}
 .ap-navigation-mode>span{padding:0 8px;text-transform:uppercase;letter-spacing:.1em}
-.ap-navigation-mode button{min-width:28px;height:28px;border:0;border-radius:50%;background:transparent;color:var(--muted);font-size:11px;font-weight:700;cursor:pointer}
-.ap-navigation-mode button[aria-pressed=true]{background:var(--accent);color:var(--page)}
-.ap-navigation-mode button:focus-visible{outline:2px solid var(--accent);outline-offset:2px}
+.ap-navigation-mode a{display:grid;place-items:center;min-width:28px;height:28px;border:0;border-radius:50%;background:transparent;color:var(--muted);font-size:11px;font-weight:700;text-decoration:none}
+.ap-navigation-mode a[aria-current=page]{background:var(--accent);color:var(--page)}
+.ap-navigation-mode a:focus-visible{outline:2px solid var(--accent);outline-offset:2px}
 @media(max-width:650px){.ap-navigation-mode{top:154px;right:12px}.ap-navigation-mode>span{display:none}}

diff --git a/src/pages/IslamGuidePage.tsx b/src/pages/IslamGuidePage.tsx
@@ -41,7 +41,7 @@ function Article(){const [params]=useSearchParams();const id=params.get('article
 
 function OverviewRedirect({reading=false}:{reading?:boolean}){
  const location=useLocation();
- return <Navigate replace to={{pathname:'/apologetics/worldviews/islam',search:location.search,hash:location.hash||(reading?'#reading-sources':'')}}/>;
+ return <Navigate replace to={{pathname:(location.pathname.startsWith('/apologetics2/')?'/apologetics2':'/apologetics')+'/worldviews/islam',search:location.search,hash:location.hash||(reading?'#reading-sources':'')}}/>;
 }
 
 export default function IslamGuidePage(){return <div className="wv-page concept-content am-guide"><Routes><Route index element={<OverviewRedirect/>}/><Route path="understanding" element={<Understanding/>}/><Route path="ministry" element={<Ministry/>}/><Route path="library" element={<OverviewRedirect reading/>}/><Route path="article" element={<Article/>}/><Route path="*" element={<OverviewRedirect/>}/></Routes></div>;}

diff --git a/design/apologetics-ia/index.html b/design/apologetics-ia/index.html
@@ -1,1 +1,1 @@
-<!doctype html><html lang="en"><head><meta charset="utf-8"><meta name="viewport" content="width=device-width,initial-scale=1"><title>Apologetics A/B navigation preview</title><meta http-equiv="refresh" content="0; url=/apologetics"></head><body><p>The A/B preview now uses the <a href="/apologetics">real Apologetics pages</a>. Use the floating pill on those pages to switch modes.</p><script>location.replace('/apologetics')</script></body></html>
+<!doctype html><html lang="en"><head><meta charset="utf-8"><meta name="viewport" content="width=device-width,initial-scale=1"><title>Apologetics proposed pages</title><meta http-equiv="refresh" content="0; url=/apologetics2"></head><body><p>The comparison uses the real <a href="/apologetics2">proposed Apologetics pages</a>. Use the floating pill to return to the original pages.</p><script>location.replace('/apologetics2')</script></body></html>

diff --git a/src/App.tsx b/src/App.tsx
@@ -96,6 +96,7 @@ export default function App() {
               <Route path="/study/atlas/*" element={<AtlasPage />} />
               <Route path="/study/places/*" element={<AtlasRedirect />} />
               <Route path="/apologetics/*" element={<ApologeticsPage />} />
+              <Route path="/apologetics2/*" element={<ApologeticsPage variant="proposed" />} />
               <Route path="/study/harmony" element={<StudyRedirect />} />
               <Route path="/study/miracles" element={<MiraclesPage />} />
               <Route path="/study/letters/*" element={<LettersPage />} />

diff --git a/design/apologetics-ia/README.md b/design/apologetics-ia/README.md
@@ -1,5 +1,5 @@
 # Apologetics navigation mockup
 
-This entry now redirects to the real `/apologetics` pages. A floating A/B pill switches between two local navigation maps while retaining the real collection content. A gives Sources its own door; B groups paths, Reformed theology, and source collections under Deepen.
+This entry opens `/apologetics2`, a proposed Apologetics section built with the real collection. A floating A/B pill moves between the corresponding original (`/apologetics`) and proposed (`/apologetics2`) pages.
 
-The global website header is unchanged. Existing collection URLs remain in place in both modes.
+The original section retains its seven local tabs and pages. The proposed section has five tabs, a reorganized Explore entrance, a field-led Questions page, and a Sources overview connecting the cited records and historic reading library. The existing study, path, worldview, debate, and text content is reused in both sections. The global website header is unchanged.
